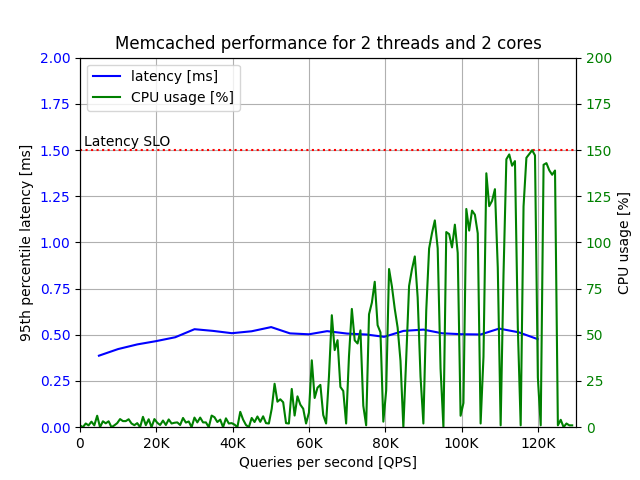
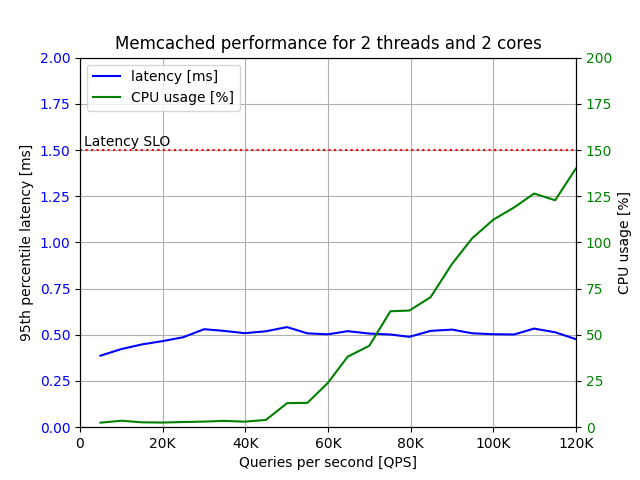
changed plot for 1d (adapted cpu values)

Changed region(s): [[0.125, 0.3125, 0.9375, 0.9375], [0.4688, 0.9062, 0.5312, 0.9375], [0.1562, 0.7188, 0.2188, 0.75]]

diff --git a/part4/main_1d.py b/part4/main_1d.py
@@ -67,7 +67,6 @@ def create_avg_data_arrays(file):
 
 # get data from raw data for each benchmark
 def create_all_data_arrays(file):
-    print("create_all_data_arrays")
     x_data_arrays = []
     y_data_arrays = []
     time_start_arrays = []
@@ -85,31 +84,27 @@ def create_all_cpu_arrays(file, qps, start, end):
     while (raw_data_row[0:3] != "165"):
         raw_data_row = file.readline()
     x_data = []
-    y_data = []
+    y_data = [0] * len(qps)
     raw_row_array = comma(raw_data_row)
     x_min = raw_row_array[0]
-    print(x_min)
     i = 0
     n_values = 0
-    y_data.append(0)
-    while (raw_data_row[:3] == "165"):
+    while (raw_data_row[:3] == "165" and i < len(start)):
         raw_row_array = comma(raw_data_row)
-        print(raw_row_array[0] * 1000)
-        print(start[i])
-        if (raw_row_array[0] * 1000 > start[i] and raw_row_array[0] * 1000 < end[i]):
-            y_data[i] += raw_row_array[2]
-            n_values += 1
-        else:
+        if (raw_row_array[0] * 1000 >= start[i] and raw_row_array[0] * 1000 <= end[i]):
+            if (i > 10 and raw_row_array[2] < 5):
+                pass
+            else:
+                y_data[i] += raw_row_array[2]
+                n_values += 1
+        elif (raw_row_array[0] * 1000 < start[i]):
+            pass
+        elif (raw_row_array[0] * 1000 > end[i]):
             if (n_values > 0):
                 y_data[i] /= n_values
             i += 1
-            y_data.append(0)
-        #if (int(raw_row_array[0]) > 1 and int(raw_row_array[1]) > 1 and int(raw_row_array[2]) > 1 and int(raw_row_array[3]) > 1):
-        #x_data.append((int(raw_row_array[0] - x_min)) * 120000/160)
-        #y_data.append(raw_row_array[2])
+            n_values = 0
         raw_data_row = file.readline()
-    print(len(y_data))
-    print(y_data)
     return (x_data, y_data)
     
 def create_all_cpu_arrays_2(file, qps, start, end):
@@ -117,39 +112,46 @@ def create_all_cpu_arrays_2(file, qps, start, end):
     while (raw_data_row[0:3] != "165"):
         raw_data_row = file.readline()
     x_data = []
-    y_data = []
+    y_data = [0] * len(qps)
     raw_row_array = comma(raw_data_row)
     x_min = raw_row_array[0]
-    print(x_min)
-    while (raw_data_row[:3] == "165"):
+    i = 0
+    n_values = 0
+    while (raw_data_row[:3] == "165" and i < len(start)):
         raw_row_array = comma(raw_data_row)
-        #if (int(raw_row_array[1]) > 1 and int(raw_row_array[2]) > 1 and int(raw_row_array[3]) > 1 and int(raw_row_array[4]) > 1):
-        x_data.append((int(raw_row_array[0] - x_min)) * 120000/160)
-        y_data.append(raw_row_array[2] + raw_row_array[3])
+        if (raw_row_array[0] * 1000 >= start[i] and raw_row_array[0] * 1000 <= end[i]):
+            if (i > 10 and raw_row_array[2] < 5):
+                pass
+            else:
+                y_data[i] += raw_row_array[2] + raw_row_array[3]
+                n_values += 1
+        elif (raw_row_array[0] * 1000 < start[i]):
+            pass
+        elif (raw_row_array[0] * 1000 > end[i]):
+            if (n_values > 0):
+                y_data[i] /= n_values
+            i += 1
+            n_values = 0
         raw_data_row = file.readline()
-    print(len(x_data))
-    print(x_data)
     return (x_data, y_data)
 
 print("start program")
 (x1, y1, time_start1, time_end1) = create_avg_data_arrays(raw_data)
 (x2, y2) = create_all_cpu_arrays(raw_data, x1, time_start1, time_end1)
-print(y1)
 (x1_2, y1_2, time_start2, time_end2) = create_avg_data_arrays(raw_data)
 (x2_2, y2_2) = create_all_cpu_arrays_2(raw_data, x1_2, time_start2, time_end2)
-print(y2)
 
 
 # Plot error bar
 plt.figure(figsize=(15, 10))
 fig, ax = plt.subplots()
 
-plt.plot(x1[0], y1[0], label="latency [ms]", color="blue")
+plt.plot(x1, y1, label="latency [ms]", color="blue")
 
 plt.xlabel("Queries per second [QPS]")
 plt.ylabel("95th percentile latency [ms]")
 plt.yticks(color="blue")
-plt.xlim(0, 130000)
+plt.xlim(0, 120000)
 plt.xticks([0, 20000, 40000, 60000, 80000, 100000, 120000], ['0', '20K', '40K', '60K', '80K', '100K', '120K'])
 plt.ylim(0, 2)
 plt.title("Memcached performance for 2 threads and 1 core")
@@ -177,12 +179,12 @@ plt.show()
 plt.figure(figsize=(15, 10))
 fig, ax = plt.subplots()
 
-plt.plot(x1_2[0], y1_2[0], label="latency [ms]", color="blue")
+plt.plot(x1_2, y1_2, label="latency [ms]", color="blue")
 
 plt.xlabel("Queries per second [QPS]")
 plt.ylabel("95th percentile latency [ms]")
 plt.yticks(color="blue")
-plt.xlim(0, 130000)
+plt.xlim(0, 120000)
 plt.xticks([0, 20000, 40000, 60000, 80000, 100000, 120000], ['0', '20K', '40K', '60K', '80K', '100K', '120K'])
 plt.ylim(0, 2)
 plt.title("Memcached performance for 2 threads and 2 cores")
